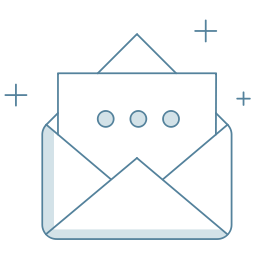
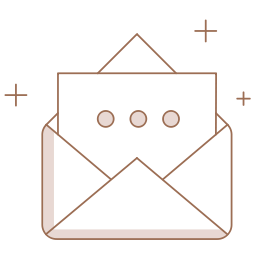
Update

diff --git a/css/style.css b/css/style.css
@@ -68,10 +68,10 @@ footer {
 
 .tone-gray{
 
-    color: #5b7387;
+    color: rgb(150,50,50);
 }
 
 .tone-gray i{
 
-    color: #5b7387;
+    color: rgb(200,100,100);
 }
